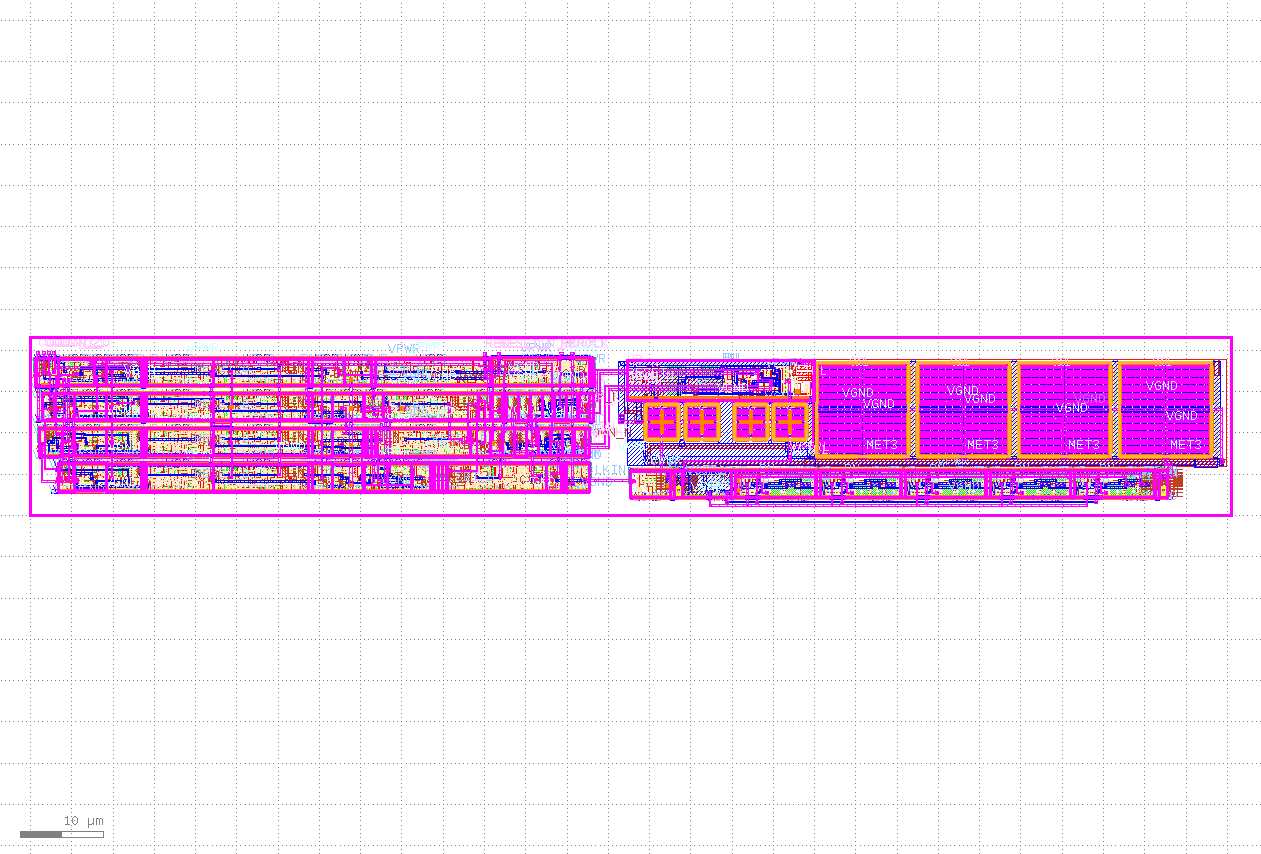
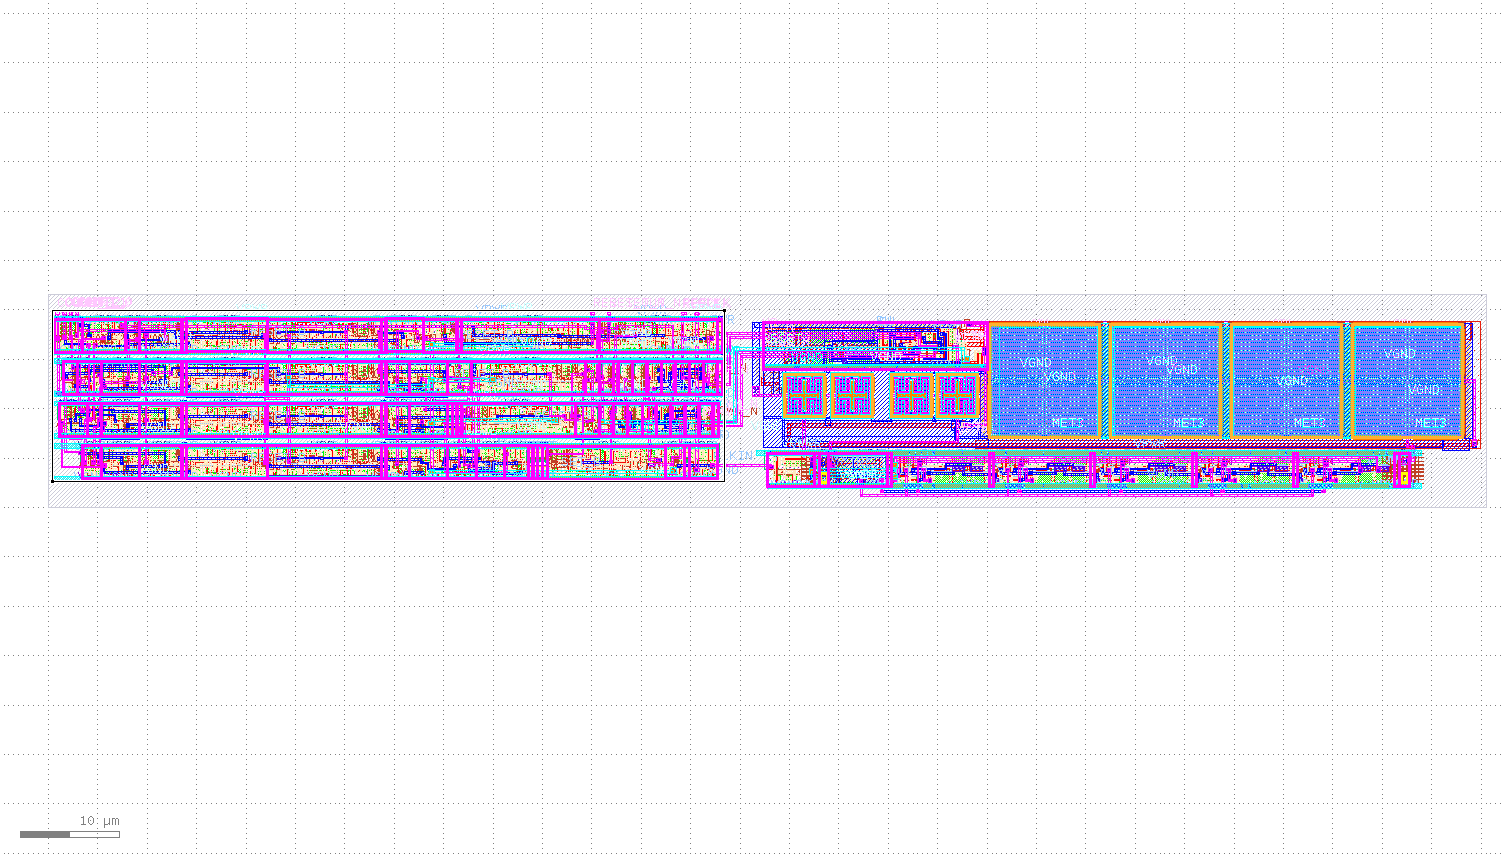
add more docs

Changed region(s): [[0.0, 0.3349, 0.9897, 0.6089], [0.0619, 0.9438, 0.0928, 0.9742]]

diff --git a/docs/info.md b/docs/info.md
@@ -22,8 +22,46 @@ input. If you want more flexibility in generated frequencies you can divide down
 Outputs are:
 * CLK - the resulting clock - at reset this in undefined, some time after RESET\_N is removed it will be active
 at the desired frequency (COUNT\+1)\*f(REFCLK) (it's your responsibility to choose frequencies that the PLL can
-actually generate - roughly 50-300MHz, outside that range the results are undefined)
+actually generate - roughly 50-300MHz, outside that range the results are undefined). Note in the rush to tape out the VCO range may have shifted up, 50MHa may not lock well - we'll see, that's what test tapeouts are for.
 * RESET\_OUT\_N - this is a synchronous signal (wrt CLK) that is asserted by RESET\_N until the clock is fairly stable - it's intended use is to hold a design in reset until the clock is stable, through the period when it might be thrashing around as the VCO starts up - your design should ignore the Tiny Tapeout rst\_n and use this signal - note this signal is generated internally, your design might have a deep clock tree, it may be useful to run this through a flop before you use it to meet setup/hold. This signal is asserted by RESET\_N and cleared when the clock becomes stable enough to use, it is not asserted again until RESET\_N is asserted. This signal is cleared BEFORE the clock is completely stable (we'll characterize this with spice later), clock freq may go slightly higher that desired (a few percent) as it settles.
+
+With the reference clock set to 25MHz these frequencies shoukld be possible, anything after ~300MHz may not be real (out of the range of the VCO)
+| COUNT    |  multiplier  | CLK Freq |
+| -------- |  -------     | --------
+| 0001     | 2            | 50MHz    |
+| 0010     | 3            | 75MHz    |
+| 0011     | 4            | 100MHz   |
+| 0100     | 5            | 125MHz   |
+| 0101     | 6            | 150MHz   |
+| 0110     | 7            | 175MHz   |
+| 0111     | 8            | 200MHz   |
+| 1000     | 9            | 225MHz   |
+| 1001     | 10           | 250MHz   |
+| 1010     | 11           | 275MHz   |
+| 1011     | 12           | 300MHz   |
+| 1100     | 13           | 325MHz*  |
+| 1101     | 14           | 350MHz*  |
+| 1110     | 15           | 375MHz*  |
+
+
+With a divides by 2 reference clock set to 12.5MHz these frequencies shoukld be possible, number under 50MHz may be out of the range of the VCO)
+| COUNT    |  multiplier  | CLK Freq |
+| -------- |  -------     | --------
+| 0001     | 2            | 25MHz*    |
+| 0010     | 3            | 37.5MHz*    |
+| 0011     | 4            | 50MHz   |
+| 0100     | 5            | 62.5MHz   |
+| 0101     | 6            | 75MHz   |
+| 0110     | 7            | 87.5MHz   |
+| 0111     | 8            | 100MHz   |
+| 1000     | 9            | 112.5MHz   |
+| 1001     | 10           | 125MHz   |
+| 1010     | 11           | 137.5MHz   |
+| 1011     | 12           | 150MHz   |
+| 1100     | 13           | 162.5MHz  |
+| 1101     | 14           | 175MHz  |
+| 1110     | 15           | 187.5MHz  |
+| 1111     | 15           | 200MHz  |
 
 # This project
 
@@ -33,7 +71,7 @@ The output CLK is connected to uo\_out\[0\] a 4 bit counter driven from CLK is c
 
 ## How to test
 
-Drive ui\_in with 8'n0000\_0001 (2 times freq), Set the TT clock to 25MHz. Assert reset, uo\_out\[1\] should go low, clear reset, uo\_out\[1\] should high. If we get this far the PLL is making a good clock. You can now look at the uo\_out pins on a scope to check the freq.
+Drive ui\_in with 8'n0000\_0001 (2 times freq), Set the TT clock to 25MHz. Assert reset, uo\_out\[1\] should go low, clear reset, uo\_out\[1\] should high. If we get this far the PLL is making a good clock. You can now look at the uo\_out pins on a scope to check the freqs (should be 50MHz though that's at the tough lower end of the final VCO, 8'n0000\_0010 will give you 75MHz, try looking at uo\_out\[3:2\]which shoukld be 1/2 and 1/4 the internal clock freq)
 
 
 
